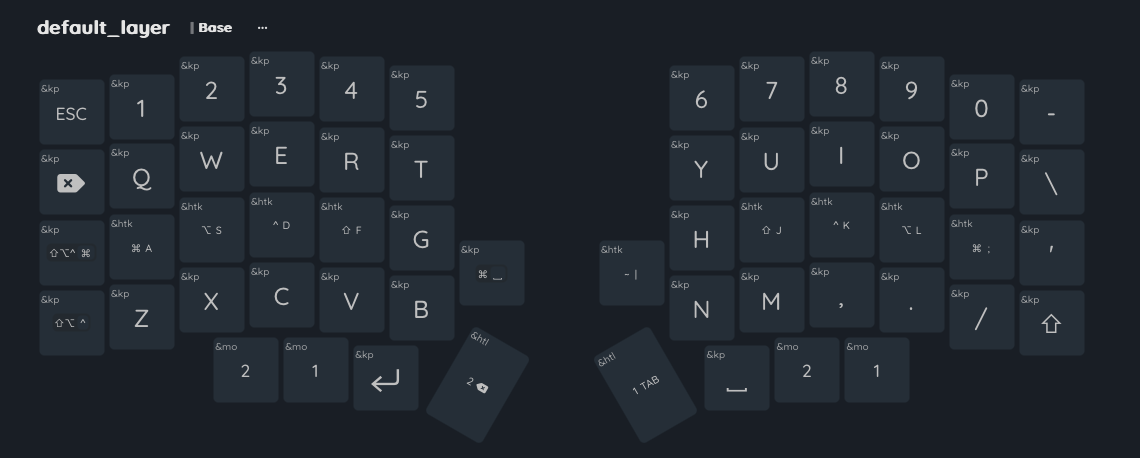
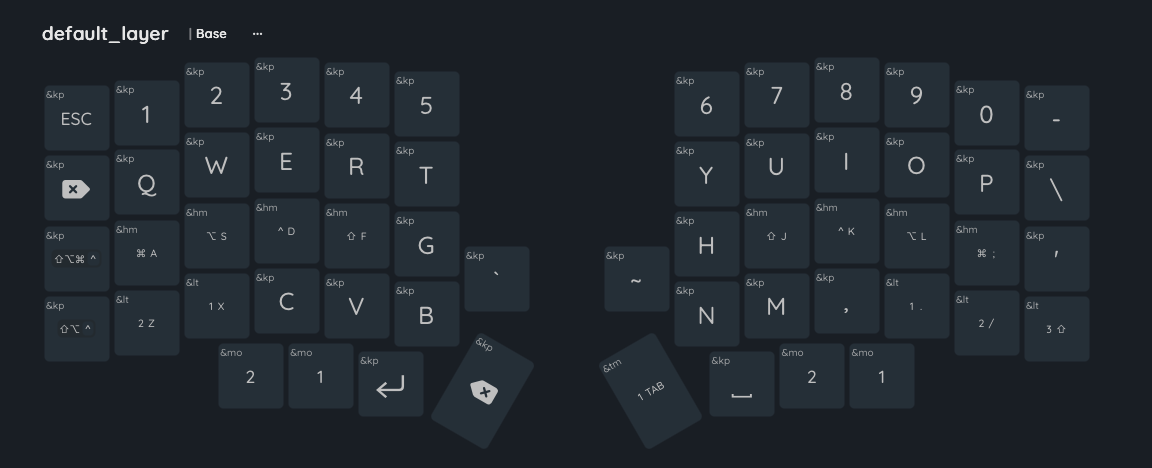
updated keymap and readme.md

diff --git a/README.md b/README.md
@@ -10,3 +10,5 @@ Other Hold-Tap RET Raise, TAB Lower, PIPE TILDE
 ![Lower Layer](img/lily58-lower.png)
 
 ![Raise Layer](img/lily58-raise.png)
+
+![Fun Layer](img/lily58-fun.png)
